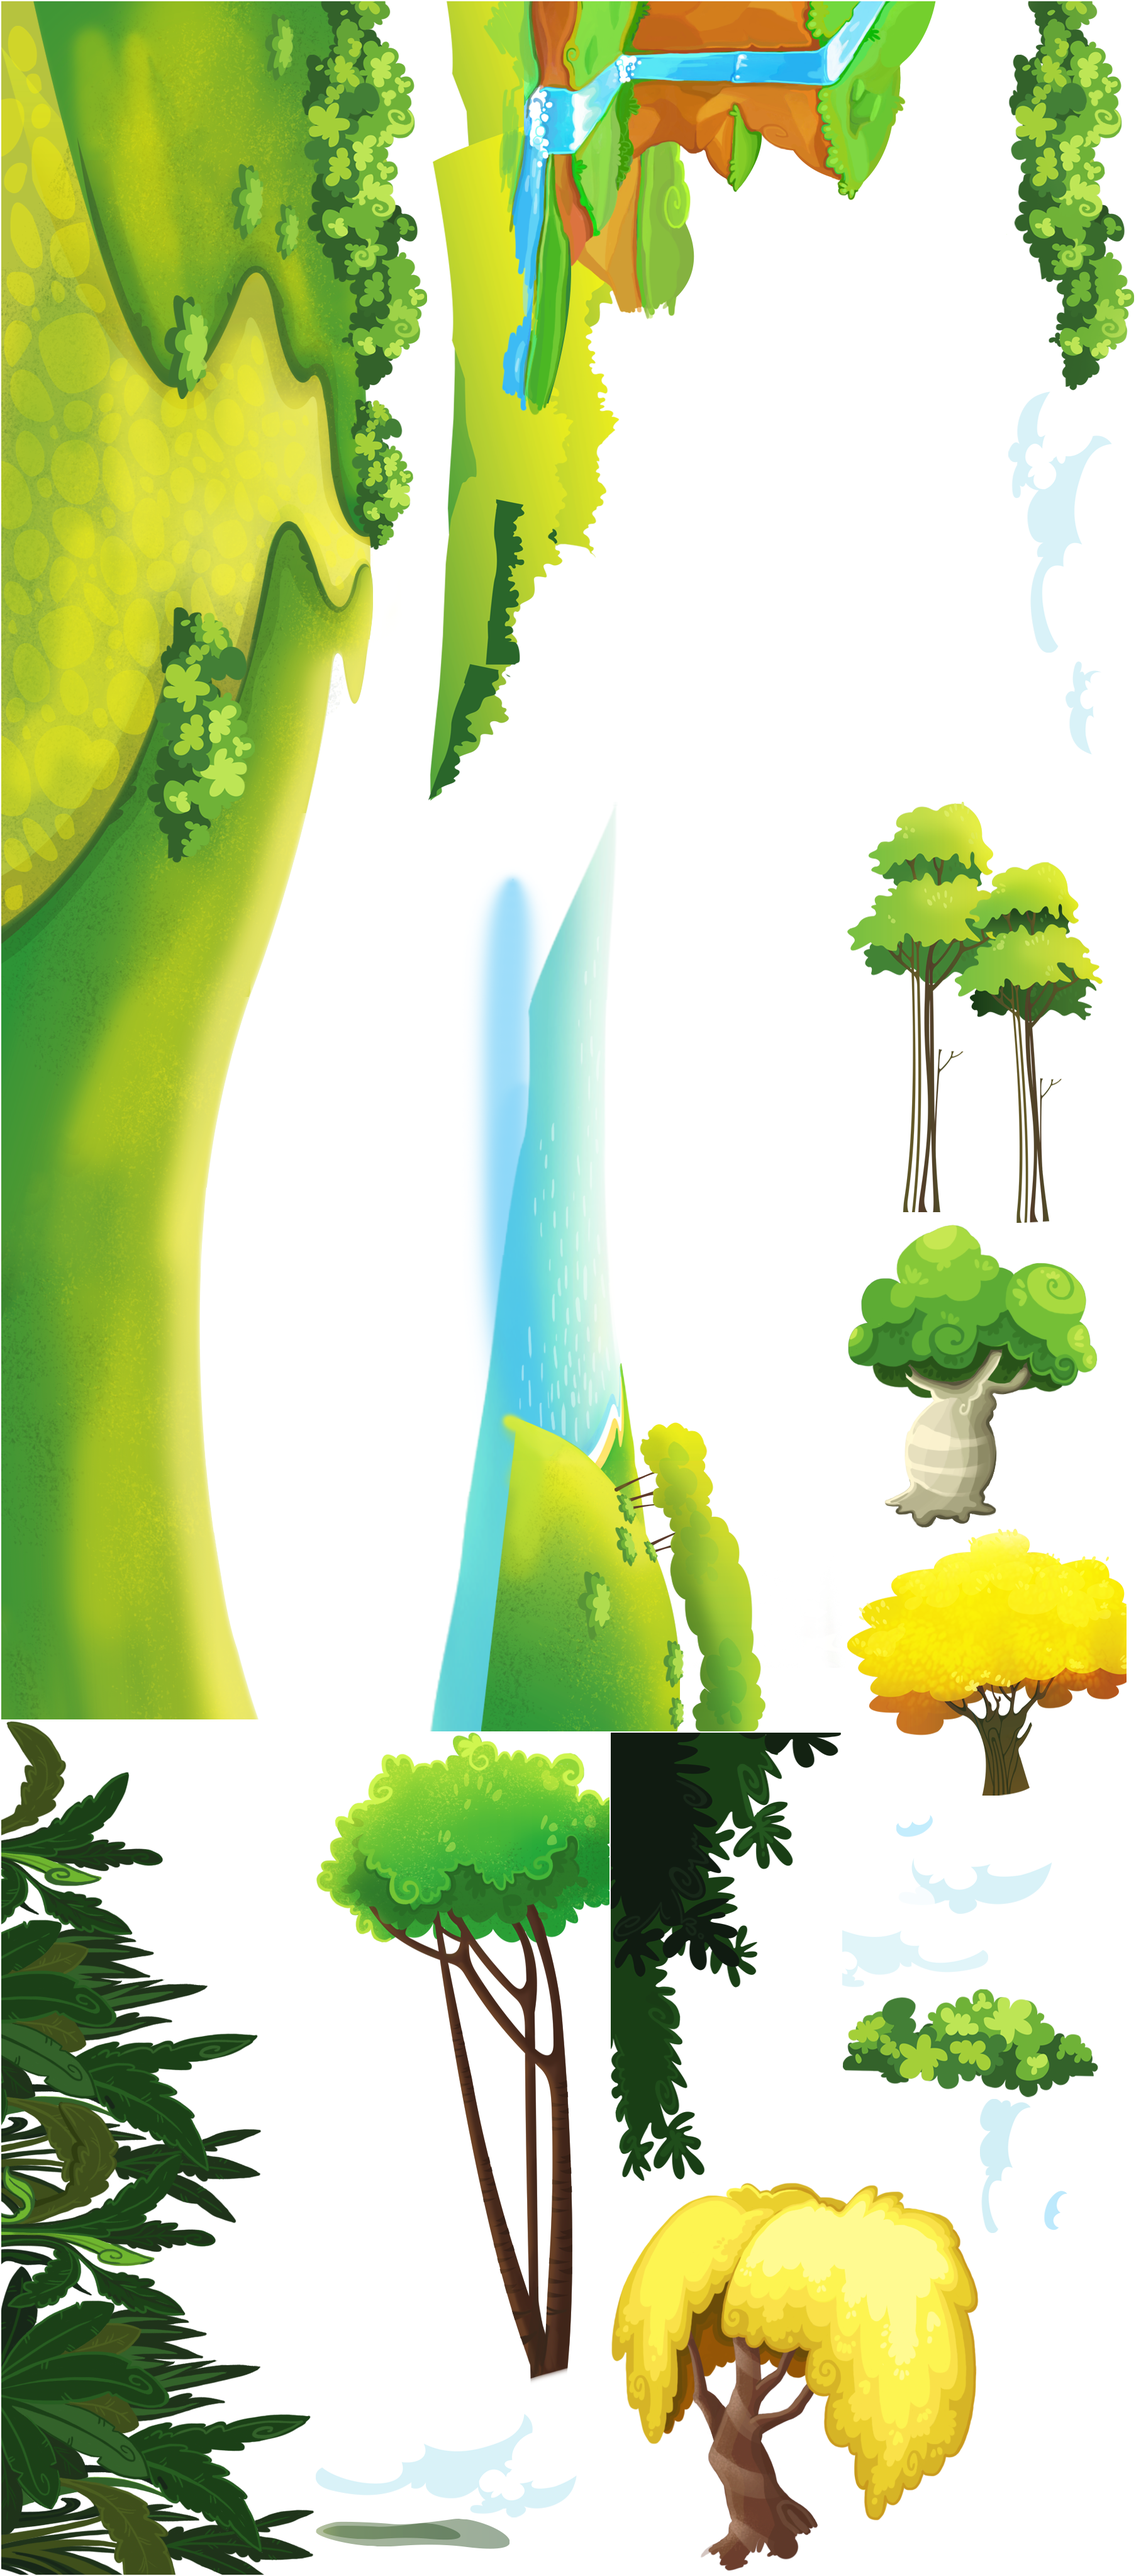
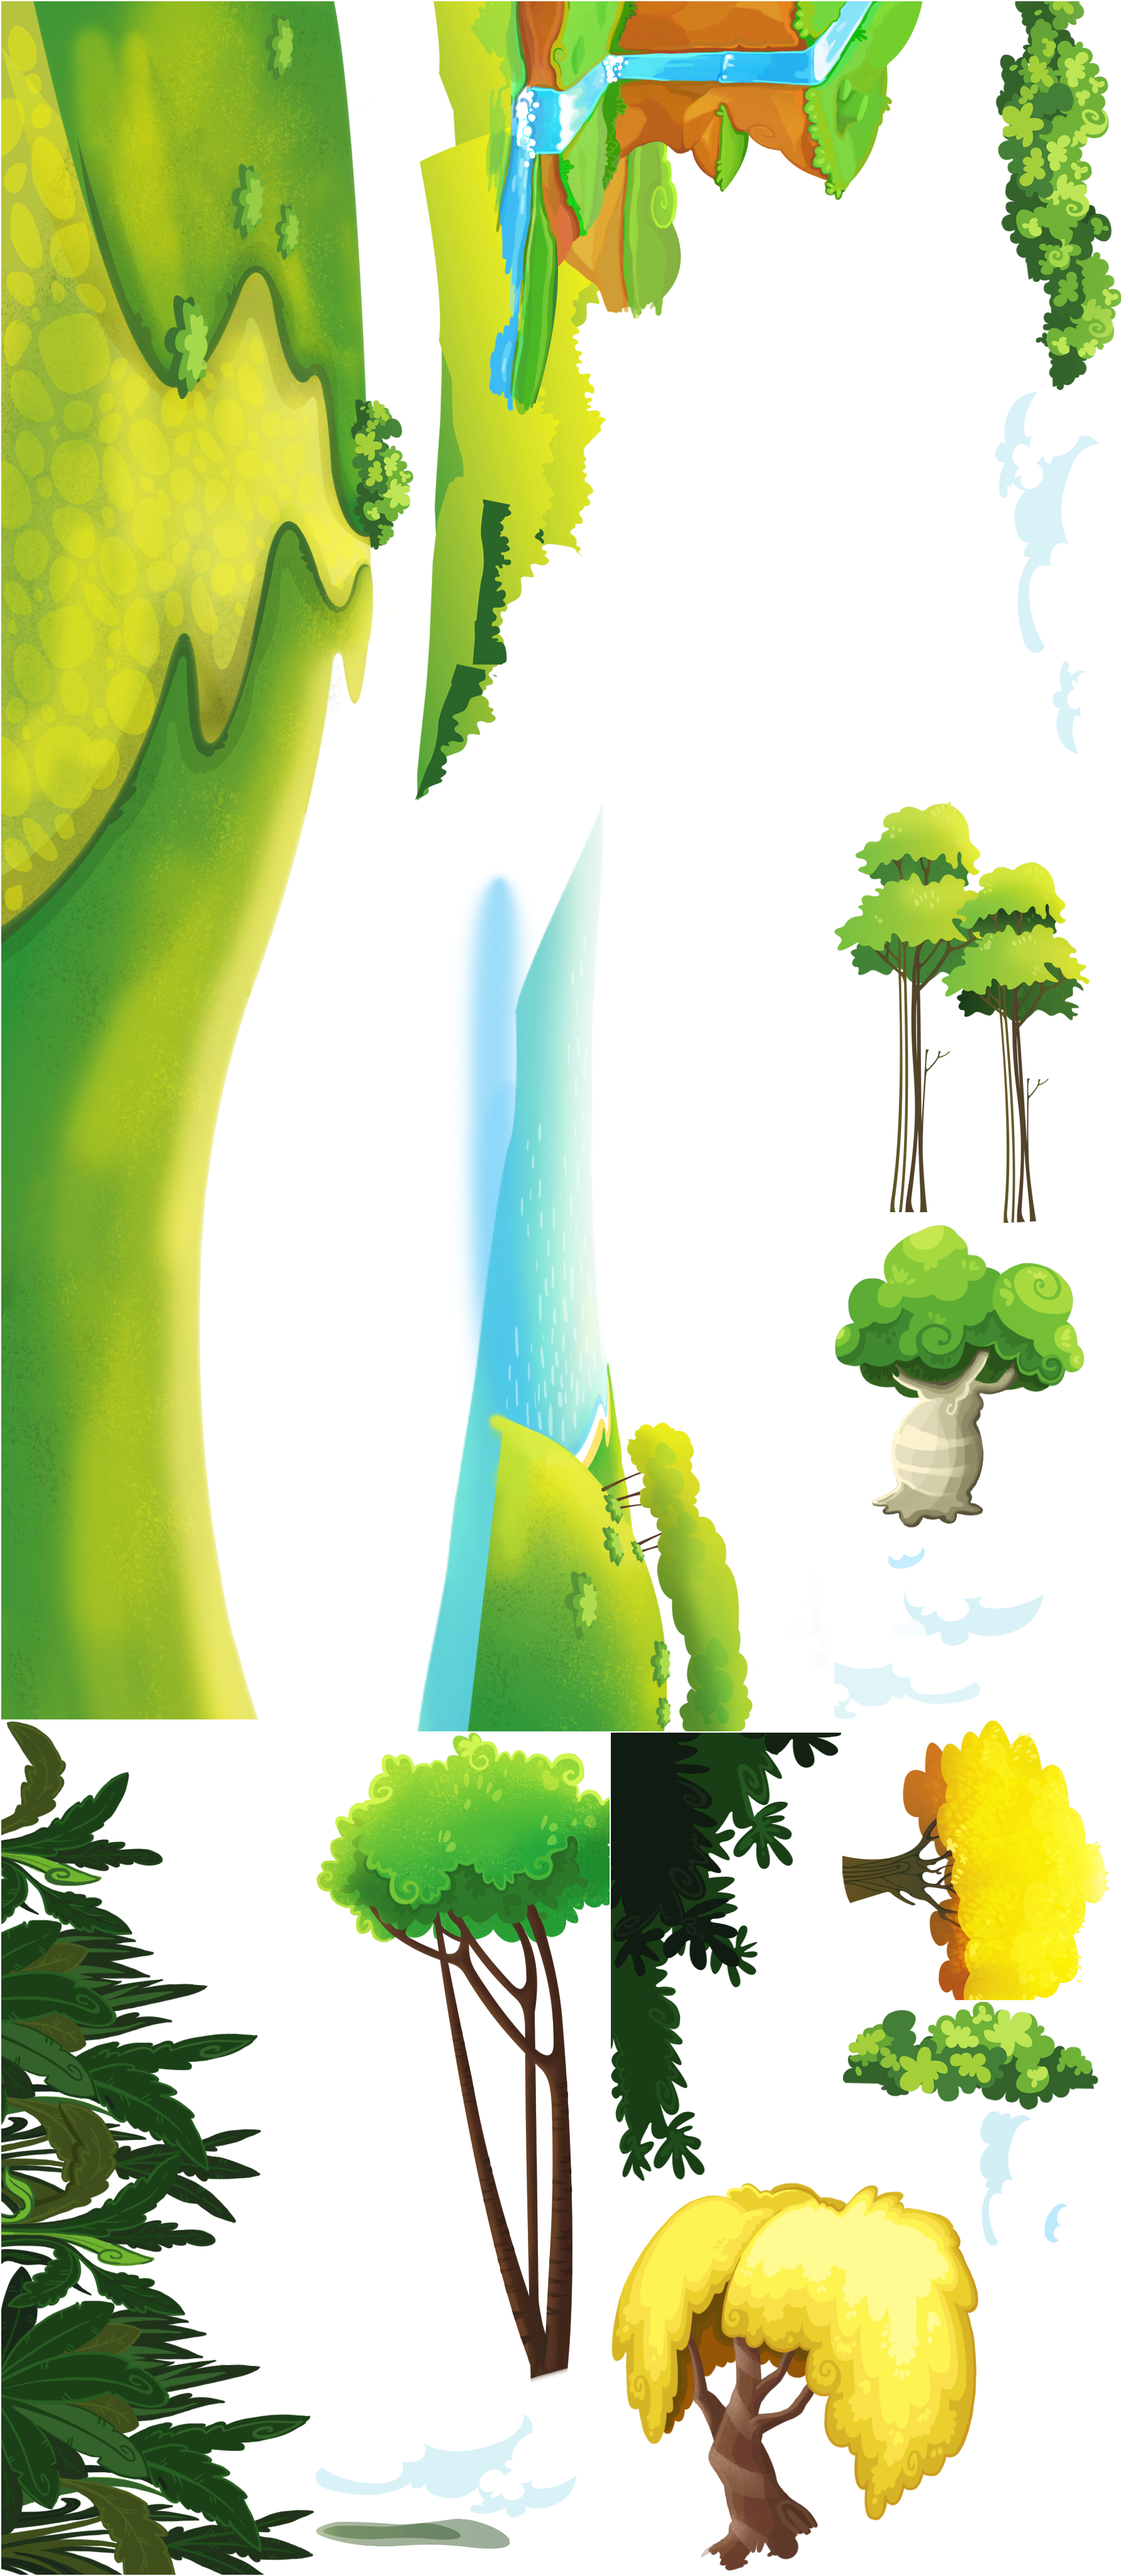
add 2 small bushs

diff --git a/src/Data.js b/src/Data.js
@@ -237,20 +237,20 @@ var FOREST_GROUND_POSITION = [
     {
         x: 200,
         y: 200,
-        z: 5,
+        z: 6,
         anchorX: 0.5,
         anchorY: 0,
     },
     {
         x: 500,
-        y: 150,
+        y: 120,
         z: 5,
         anchorX: 0.5,
         anchorY: 0,
     },
     {
         x: 650,
-        y: 150,
+        y: 100,
         z: 5,
         anchorX: 0.5,
         anchorY: 0,
@@ -322,7 +322,7 @@ var FOREST_BACKGROUND_ITEMS_POSITION = [
         z: 1 },
     {
         x: 0,
-        y: 143,
+        y: 133,
         anchorX: 0,
         anchorY: 0.5,
         imageName: "#ground.png",
@@ -390,6 +390,22 @@ var FOREST_BACKGROUND_ITEMS_POSITION = [
         anchorX: 0.5,
         anchorY: 0.5,
         imageName: "#bush-2.png",
+        z: 6
+    },
+    {
+        x: 485,
+        y: cc.winSize.height/2 - 200,
+        anchorX: 0.5,
+        anchorY: 0.5,
+        imageName: "#small-bush-1.png",
+        z: 6
+    },
+    {
+        x: 0,
+        y: cc.winSize.height / 2 - 80,
+        anchorX: 0,
+        anchorY: 0.5,
+        imageName: "#small-bush-2.png",
         z: 6
     }
 ];
